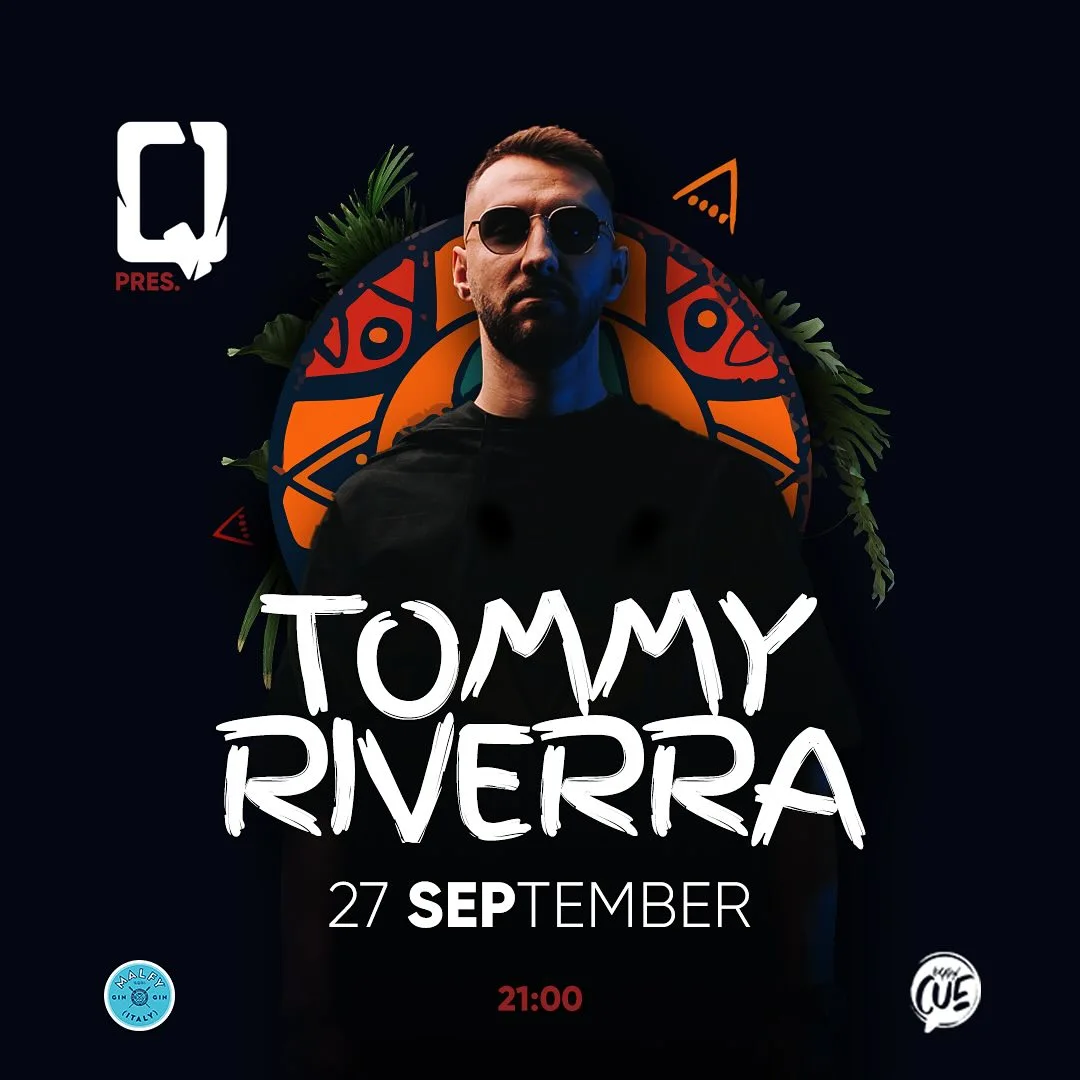
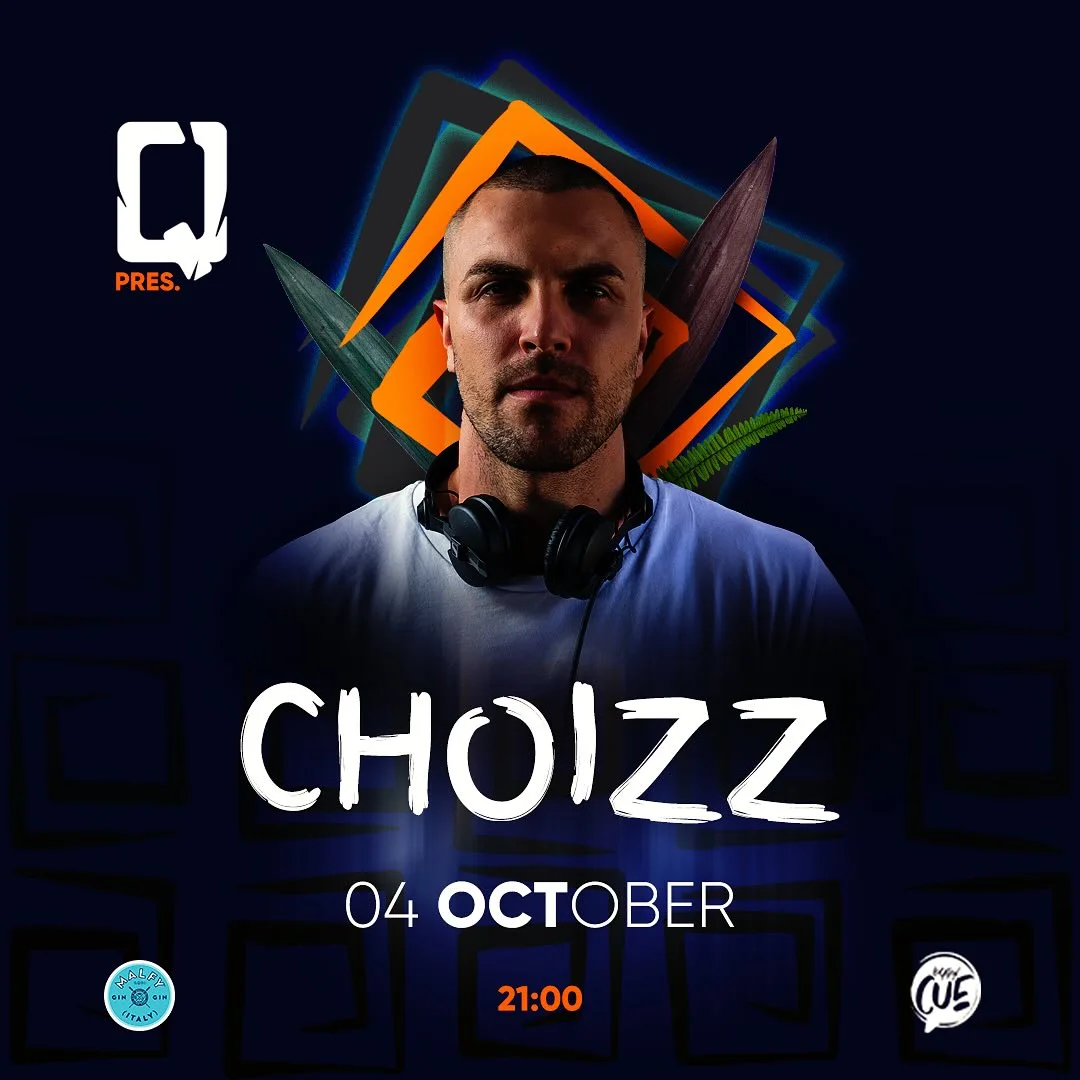
V

diff --git a/app/components/Events.tsx b/app/components/Events.tsx
@@ -26,13 +26,13 @@ export default async function Events(): Promise<JSX.Element> {
       hour: "21:00",
       name: "HOT JAM",
     },
-    // {
-    //   image: event3,
-    //   date: `27 ${t("events.month")}`,
-    //   day: t("events.day-3"),
-    //   hour: "21:00",
-    //   name: "TOMMY RIVERRA",
-    // },
+    {
+      image: event3,
+      date: `4 ${t("events.month")}`,
+      day: t("events.day-3"),
+      hour: "21:00",
+      name: "CHOIZZ",
+    },
     // {
     //   image: event4,
     //   date: `28 ${t("events.month")}`,
@@ -40,13 +40,13 @@ export default async function Events(): Promise<JSX.Element> {
     //   hour: "21:00",
     //   name: "DANNY SLIM",
     // },
-    {
-      image: event5,
-      date: t("events.no-event-1"),
-      day: t("events.no-event-2"),
-      // hour: "21:00",
-      name: t("events.no-event-3"),
-    },
+    // {
+    //   image: event5,
+    //   date: t("events.no-event-1"),
+    //   day: t("events.no-event-2"),
+    //   // hour: "21:00",
+    //   name: t("events.no-event-3"),
+    // },
     {
       image: event5,
       date: t("events.no-event-1"),
